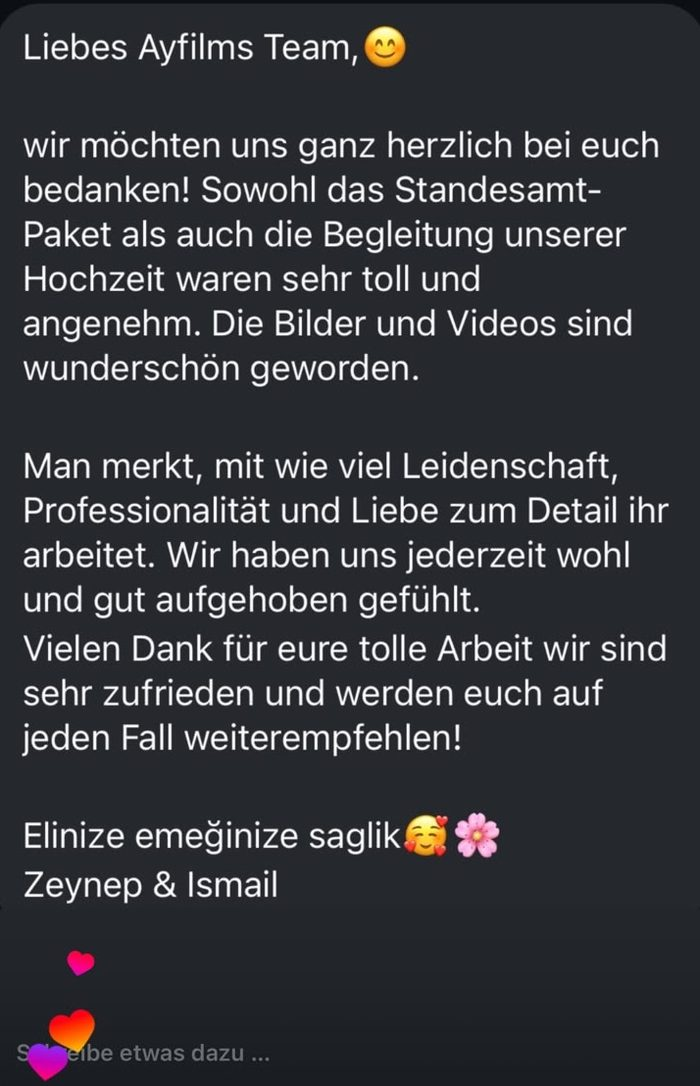
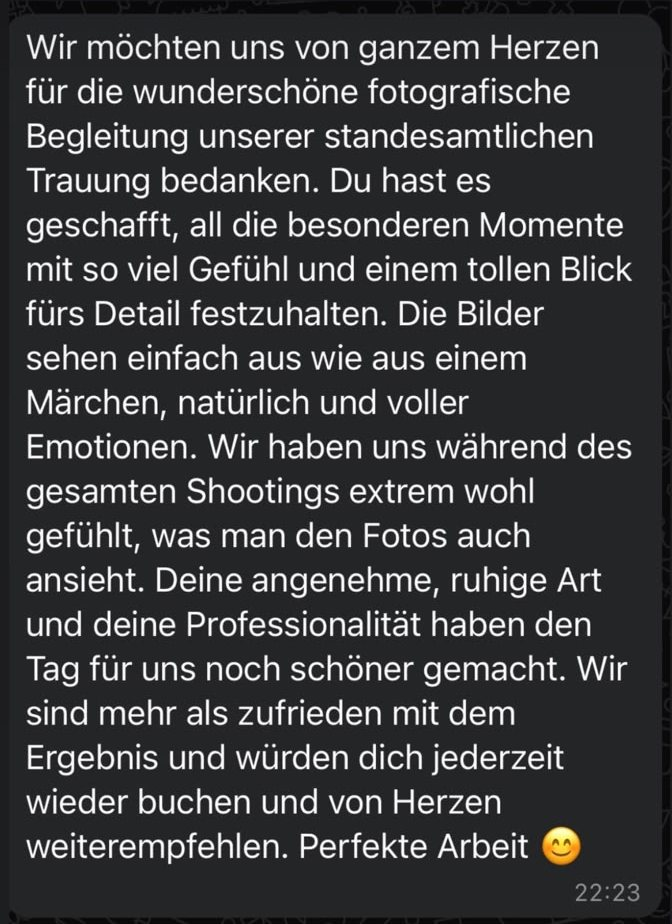
Kundenstimmen: drei Feedbacks nebeneinander in gleichem Kartenformat
Claude-Session: https://claude.ai/code/session_017aDmsjzeaDN4eqr7t6w3my

Changed region(s): [[0.0, 0.0, 1.0, 1.0]]

diff --git a/index.html b/index.html
@@ -299,8 +299,15 @@
         <div class="who">Rückmeldung einer Braut</div>
       </div>
 
-      <!-- Weitere Bewertungen können hier als zusätzliche .t-card eingefügt
-           werden, sobald gewünscht. -->
+      <div class="t-card t-shot">
+        <img src="img/review-2.jpg" alt="Kundenbewertung ayfilms: Dank für die standesamtliche Trauung" loading="lazy">
+        <div class="who">Rückmeldung eines Brautpaars</div>
+      </div>
+
+      <div class="t-card t-shot">
+        <img src="img/review-3.jpg" alt="Kundenbewertung ayfilms: Fotos und Videos atemberaubend" loading="lazy">
+        <div class="who">Rückmeldung eines Brautpaars</div>
+      </div>
     </div>
   </div>
 </section>

diff --git a/css/style.css b/css/style.css
@@ -886,6 +886,14 @@ p { margin: 0; }
 .t-card.t-shot img {
   border-radius: 1px;
   margin-bottom: 14px;
+  width: 100%;
+  aspect-ratio: 4 / 5;
+  object-fit: contain;
+  background: #0a0a0a;
+}
+@media (min-width: 900px) {
+  .t-track { overflow-x: visible; }
+  .t-card { flex: 1 1 0; min-width: 0; }
 }
 .t-card.t-shot .who { margin: 0 14px 10px; padding-top: 0; border-top: none; }
 
